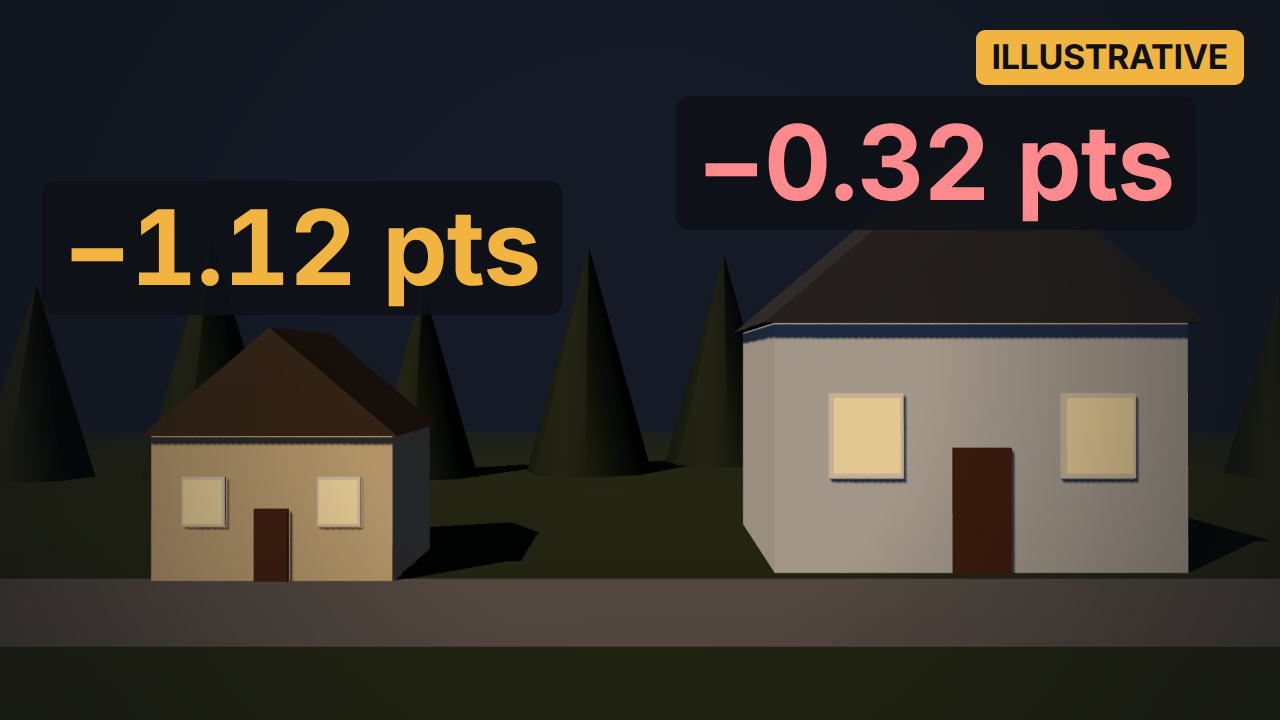
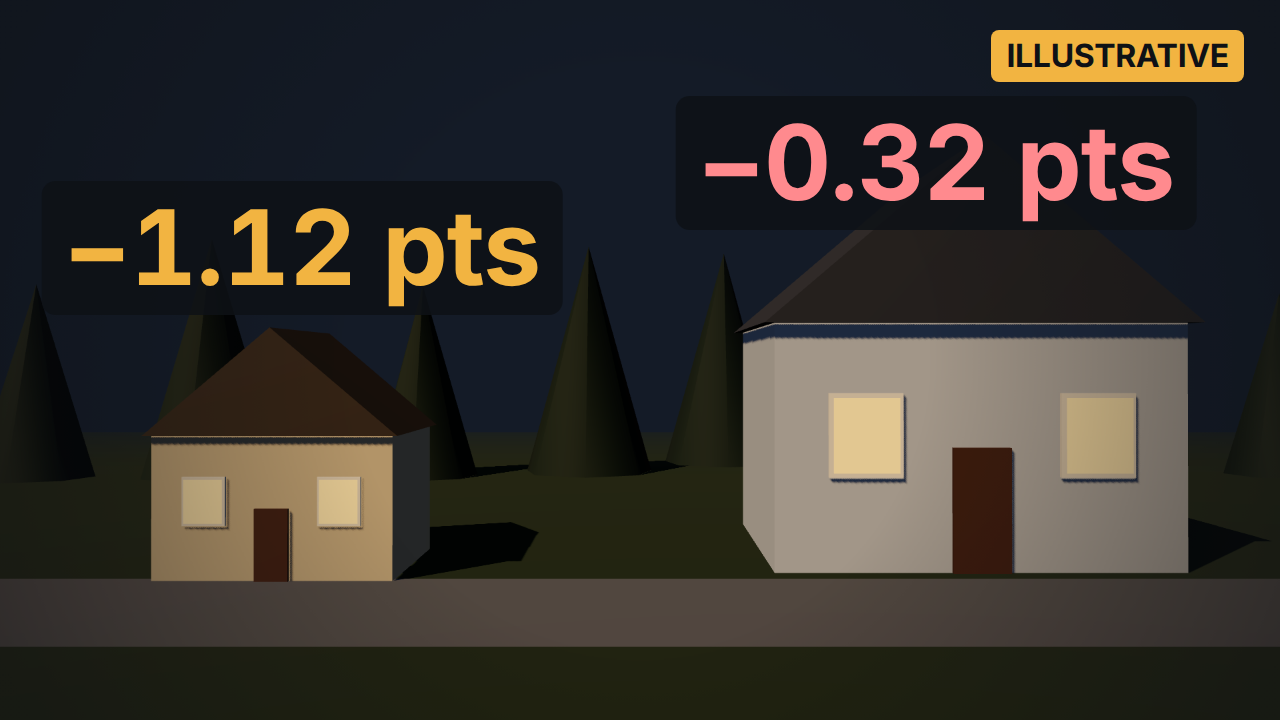
ep001 gói phát hành chốt cuối: tiêu đề a1, thumbnail H mặc định (Test & Compare H/W/L), DA theo a1; H huy hiệu theo token
Claude-Session: https://claude.ai/code/session_016EPtam7ttrjQMg4sTyN4PK

Changed region(s): [[0.75, 0.0306, 0.9688, 0.1222]]

diff --git a/episodes/ep001/out/package/v2/upload-sheet.md b/episodes/ep001/out/package/v2/upload-sheet.md
@@ -1,14 +1,14 @@
 # Tập 1 · Phiếu tải lên YouTube (PACKAGING v2, 30/09/2026)
 
-Phiếu điền cho YouTube Studio. **Chủ dự án đã chốt 30/09/2026:** tiêu đề c2, thumbnail W (mặc định) + thumb-3 + L cho Test & Compare, mô tả DA, end screen E1. Chỗ còn ghi **ĐỀ XUẤT** là việc chủ dự án chọn khi tải lên. Chữ công khai viết tiếng Anh, ghi chú viết tiếng Việt. Tệp phim: `out/video.mp4` (591,3 s = **9:51**; PACKAGING không động vào).
+Phiếu điền cho YouTube Studio. **Chủ dự án chốt lần cuối 30/09/2026 (theo gu, khác kết quả so cặp mù):** tiêu đề a1, thumbnail H (mặc định) + W + L cho Test & Compare, mô tả DA sửa hai dòng đầu theo a1, end screen E1. (Lần chốt trước — c2 / W, thumb-3, L — đã thay.) Chỗ còn ghi **ĐỀ XUẤT** là việc chủ dự án chọn khi tải lên. Chữ công khai viết tiếng Anh, ghi chú viết tiếng Việt. Tệp phim: `out/video.mp4` (591,3 s = **9:51**; PACKAGING không động vào).
 
 ## 1. Chi tiết
 
 | Trường | Giá trị |
 |---|---|
-| Title | **Borrowed Over 7% in 2023? The Rate Cut a Refinance Needs** (c2, 56 ký tự; chốt 30/09). Test & Compare chỉ thử thumbnail, tiêu đề giữ cố định. |
-| Description | `description.md` — hai dòng đầu **DA** (chốt 30/09). Chapters đã có sẵn (0:00 …), phải bắt đầu bằng 0:00. |
-| Thumbnail | Test & Compare, 3 ảnh (chốt 30/09): **`thumb-W.png` (mặc định, tải lên đầu tiên)**, `../thumb-3.png`, `thumb-L.png`. Bỏ H. L giữ huy hiệu ILLUSTRATIVE cỡ theo token (32 px = 48 px × 2/3), vì $1,133 là số của nhân vật minh hoạ; W không cần huy hiệu (5.98% là số thật, `low2026`). Cả ba 1280×720, PNG < 2 MB. |
+| Title | **Why a Smaller Loan Needs a Bigger Rate Cut to Be Worth It** (a1, 57 ký tự; claim `cut36_small` 1.12 > `cut36_large` 0.32, phép thử 3 năm). Test & Compare chỉ thử thumbnail, tiêu đề giữ cố định. |
+| Description | `description.md` — hai dòng đầu **DA sửa theo a1** (144 ký tự): "A refinance on a smaller loan needs a bigger rate cut to earn back its fees within 3 years. Here is how big, for small, typical and large loans." Chapters đã có sẵn (0:00 …), phải bắt đầu bằng 0:00. |
+| Thumbnail | Test & Compare, 3 ảnh (chốt 30/09): **`thumb-H.png` (mặc định, tải lên đầu tiên)**, `thumb-W.png`, `thumb-L.png`. H và L giữ huy hiệu ILLUSTRATIVE cỡ theo token (32 px = 48 px × 2/3), vì 1.12 / 0.32 / $1,133 là số của nhân vật minh hoạ; H giữ "pts" (điểm phần trăm, không đổi sang %). W không cần huy hiệu (5.98% là số thật, `low2026`). Cả ba 1280×720, PNG < 2 MB. Test & Compare cho dữ liệu thật phân xử giữa gu (a1 + H) và so cặp mù (c2 + W). |
 | Playlist | **ĐỀ XUẤT**: tạo "Refinance & Mortgage Math" (Tập 1 là video đầu). Tên kênh dự phòng: "Crux: Money Math, Checked". |
 | Audience | **Made for kids: No** ("No, it's not made for kids"). |
 | Age restriction | Không. |
@@ -67,8 +67,8 @@ Kiểm claim: `cut36_small` 1.12, `cut36_median` 0.5 ("half a point", S18.5), `c
 
 ## 7. Trước khi bấm Public
 
-- [ ] Tiêu đề c2; bật Test & Compare với W (mặc định), thumb-3, L.
-- [ ] Mô tả DA (`description.md`); bấm thử link FHFA.
+- [ ] Tiêu đề a1; bật Test & Compare với H (mặc định), W, L.
+- [ ] Mô tả DA sửa theo a1 (`description.md`); bấm thử link FHFA.
 - [ ] Altered or synthetic = Yes; Made for kids = No; Education; English.
 - [ ] Phụ đề `captions.srt`.
 - [ ] Playlist.

diff --git a/episodes/ep001/ledger.md b/episodes/ep001/ledger.md
@@ -79,3 +79,4 @@ Mỗi agent con và mỗi cổng ghi một dòng. Thời gian UTC. "Ký tự EL"
 | 2026-09-30 | PACKAGING v2 · playbook nháp | 0 | `playbook/packaging.md` (NHÁP, chờ duyệt ở tổng kết Tập 1): nguyên tắc (không luật đếm), thư viện 8 kiểu móc, kiểm 3 lớp (L1 claim/S10/độ dài/quyền/đọc 25–10 %; L2 tay nghề; L3 so cặp mù + chủ dự án + Test & Compare), đề xuất đưa gói vào C1/C3/C6 Tập 2, đề xuất sửa P01 + P02. CHARTER không sửa. | — |
 | 2026-09-30 | PACKAGING v2 · so cặp mù | 48 agent | 48 agent mới, một ảnh mỗi agent, câu hỏi cố định; giải mã sau khi đủ: gói c2 12/12, c1 10/12, T1 8/12, b2 6/12, a1 3/12, b1 2/12, a2 1/12; thumbnail W 4/4, L 1/4, H 1/4; lệch vị trí 19/23. `review-c6/pack-test/results.md` + `<id>/answer.md` nguyên văn. | — |
 | 2026-09-30 | PACKAGING v2 · chốt | 0 | Chủ dự án chốt: tiêu đề c2, Test & Compare W (mặc định) + thumb-3 + L (bỏ H), mô tả DA, end screen E1. `thumb-L` render lại: huy hiệu ILLUSTRATIVE theo token `type.badge` (48 px × 2/3 = 32 px, 700), tương phản 10% 3,12. `upload-sheet.md`, `description.md` cập nhật; `playbook/packaging.md` §6 ba bài học. Sổ gu "G-009 · C6 · gói v2" + AUTHORSHIP trên main `4be41cd`. | — |
+| 2026-09-30 | PACKAGING · chốt cuối | 0 | Chủ dự án chốt theo gu: tiêu đề a1, H mặc định, Test & Compare H/W/L, DA sửa hai dòng đầu theo a1 (144 ký tự), E1. `thumb-H` render lại: huy hiệu theo token 32 px, giữ "pts". `upload-sheet.md`, `description.md`, `playbook/packaging.md` §6.4; sổ gu "G-009 · C6 · gói chốt" main `321e179`. Xoá nhánh `release/ep001-rc` (chủ dự án báo SHA khớp): proxy git ngắt kết nối 5/5 lần → chủ dự án xoá tay. | — |

diff --git a/episodes/ep001/out/package/v2/description.md b/episodes/ep001/out/package/v2/description.md
@@ -1,6 +1,6 @@
-<!-- out/package/v2/description.md · PACKAGING v2 (2026-09-30). First two lines = option DA — CHOSEN by the owner 30/09 (DB not used). Body = the approved C5 description (D1) unchanged, plus the FHFA link. -->
+<!-- out/package/v2/description.md · PACKAGING v2 (2026-09-30). First two lines = DA rewritten 30/09 for title a1 (owner's final pick; claims cut36_small 1.12 > cut36_median 0.5 > cut36_large 0.32, test hold36). Body = the approved C5 description (D1) unchanged, plus the FHFA link. -->
 
-Got a refinance offer? Here is how big a rate cut it takes to earn back the fees within 3 years, and why the answer depends on your loan size.
+A refinance on a smaller loan needs a bigger rate cut to earn back its fees within 3 years. Here is how big, for small, typical and large loans.
 
 In February 2026 the average 30-year mortgage rate in the US fell to 5.98%. By late September it was back above 7%. If a refinance offer has reached you since, this video walks through the math behind it with three illustrative borrowers, Nora, Walt and Anjali, built from typical 2025 figures.
 
